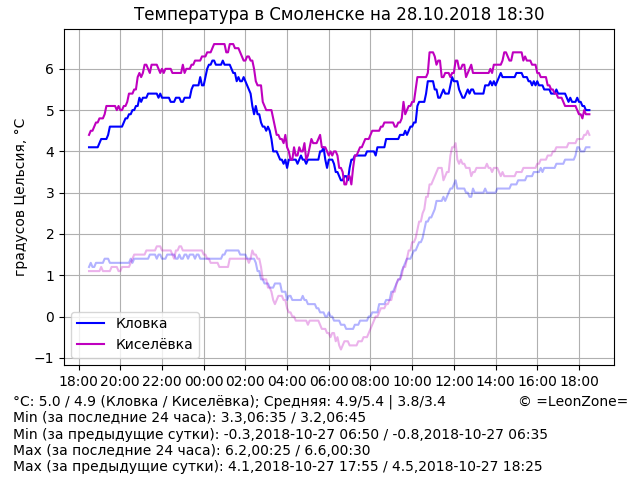
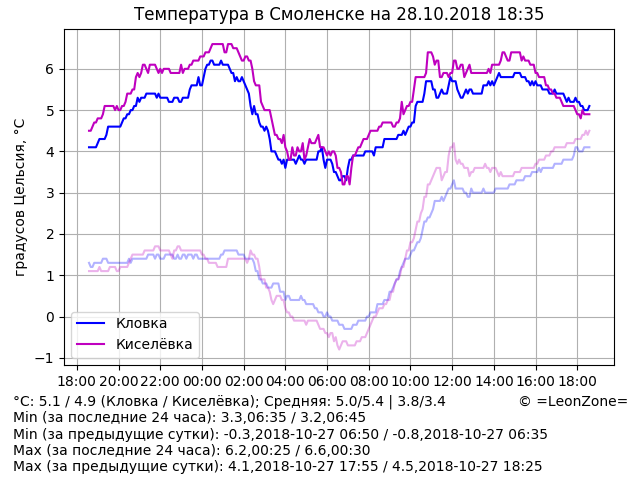
Update data

diff --git a/index.html b/index.html
@@ -14,7 +14,7 @@
 	<p align="center"><script>document.write("<img src=\"graph.png?rnd="+Math.random()+"\" alt=\"Температура в Смоленске\" align=\"middle\" width=\"640\" height=\"480\" />")</script>
 	<p hidden="true">
 <!-- textinfo -->
-°C: 5.0 / 4.9 (Кловка / Киселёвка); Средняя: 4.9/5.4 | 3.8/3.4
+°C: 5.1 / 4.9 (Кловка / Киселёвка); Средняя: 5.0/5.4 | 3.8/3.4
 Min (за последние 24 часа): 3.3,06:35 / 3.2,06:45
 Min (за предыдущие сутки): -0.3,2018-10-27 06:50 / -0.8,2018-10-27 06:35
 Max (за последние 24 часа): 6.2,00:25 / 6.6,00:30
